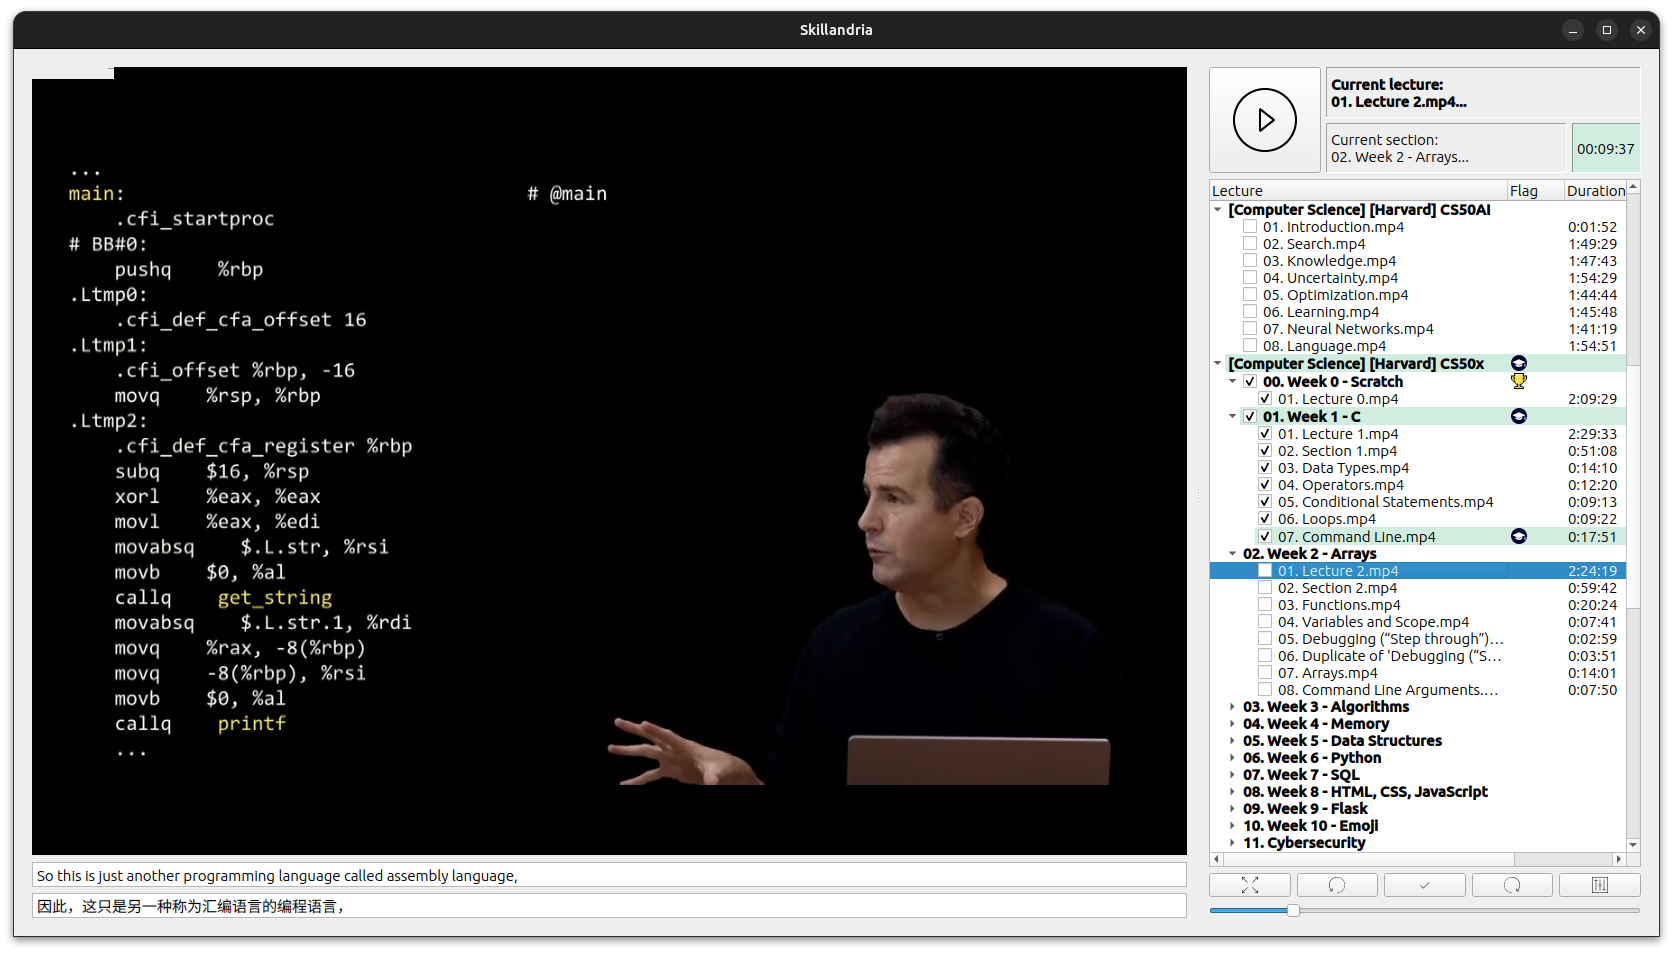
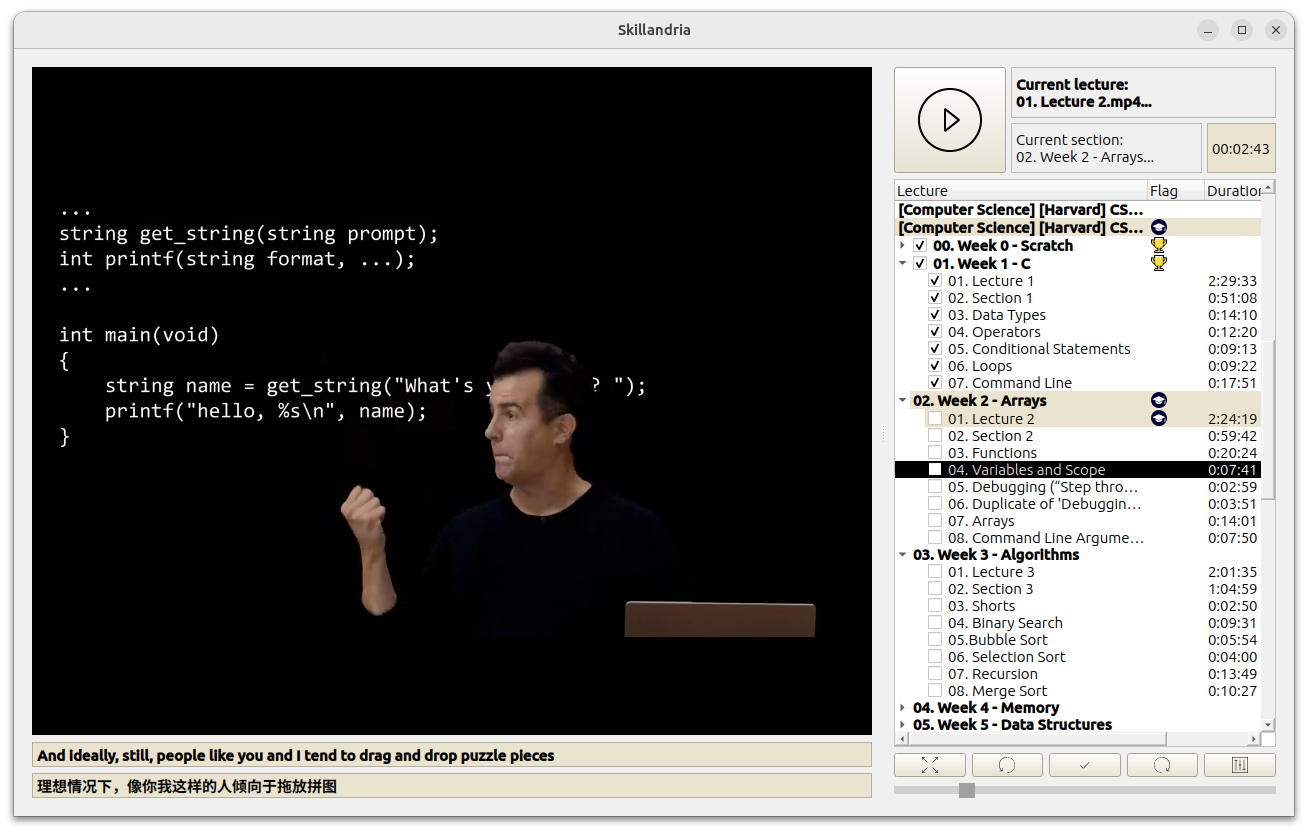
Fixed config path

diff --git a/skillandria/videoplayer.py b/skillandria/videoplayer.py
@@ -16,12 +16,8 @@ class VideoPlayer(QMainWindow):
     def __init__(self, parent=None):
         super().__init__(parent)
 
-        self.load_theme()
-
-        self.string_from_file = None
         self.subtitle_list = None
-        self.settings_dialog = None
-        self.settings = None
+        self.settings = QSettings("skillandria")
         self.setWindowTitle("Skillandria")
 
         self.resize(800, 600)
@@ -30,8 +26,10 @@ class VideoPlayer(QMainWindow):
         self.start_time = 0
         self.end_time = 0
 
-        if not os.path.exists(config_file):
+        if not os.path.exists(self.settings.fileName()):
             self.open_settings()
+
+        self.theme = self.load_theme()
 
         self.icon_path = get_icon_path(self.theme)
         self.theme_path = get_theme_path(self.theme)
@@ -39,7 +37,7 @@ class VideoPlayer(QMainWindow):
         self.translation_language = load_translation_language()
         self.folder_path = load_folder_path()
 
-        self.subtitle_connected = False  # Flag to track subtitle connection
+        self.subtitle_connected = False
 
         # Main widget
         self.central_widget = QWidget(self)
@@ -225,17 +223,19 @@ class VideoPlayer(QMainWindow):
 
     def load_theme(self):
         # Load the theme from the config.ini file
-        self.settings = QSettings(QSettings.Format.IniFormat, QSettings.Scope.UserScope, config_file)
         if self.settings.value("DarkThemeEnabled") == "true":
-            self.theme = "dark"
+            self.setStyleSheet(load_stylesheet(get_theme_path("dark")))
+            self.repaint()
+
+            return "dark"
         else:
-            self.theme = "light"
-        self.setStyleSheet(load_stylesheet(get_theme_path(self.theme)))
-        self.repaint()
+            self.setStyleSheet(load_stylesheet(get_theme_path("light")))
+            self.repaint()
+
+            return "light"
 
     def load_last_played_video(self):
-        # Load the last played video from config.ini
-        self.settings = QSettings(QSettings.Format.IniFormat, QSettings.Scope.UserScope, config_file)
+        # Load the last played video from config
         last_video = self.settings.value("LastVideo")
         if last_video is not None:
             self.string_from_file = last_video
@@ -285,9 +285,6 @@ class VideoPlayer(QMainWindow):
 
     def translate_subtitle(self):
 
-        # self.translation_delay = self.translation_delay + 1
-        # print(self.translation_delay)
-
         subtitle_text = self.subtitle_textedit.toPlainText()
         if subtitle_text:  # and self.translation_delay > 10:
             translator = Translator()
@@ -297,14 +294,12 @@ class VideoPlayer(QMainWindow):
 
                     # googletranslate version 3.0 breaks, version 3.1 needs to pass translation instead translation.text
                     self.translation_textedit.setPlainText(translation)
-                    # self.translation_delay = 0
                 else:
                     self.translation_textedit.clear()
             except Exception as e:
 
                 # print(f"translation.text: {self.translation}")
                 print(f"Translation error: {e}")
-                # Handle the exception here (show an error message, log the error, etc.)
         else:
             self.translation_textedit.clear()
 
@@ -531,16 +526,15 @@ class VideoPlayer(QMainWindow):
     def start_timer(self):
         self.timer_running = 1
         if self.theme == "dark":
-            self.timer_label.setStyleSheet("background-color: #2e3436")
+            self.timer_label.setStyleSheet("background-color: #59564e")
         else:
-            self.timer_label.setStyleSheet("background-color: #d3d7cf")
+            self.timer_label.setStyleSheet("background-color: #eae3d0")
 
     def stop_timer(self):
         self.timer_running = 0
         self.timer_label.setStyleSheet("")
 
     def save_last_file_played(self):
-        self.settings = QSettings(QSettings.Format.IniFormat, QSettings.Scope.UserScope, config_file)
         self.settings.setValue("LastVideo", self.current_video_path)
 
     def closeEvent(self, event):

diff --git a/skillandria/settings.py b/skillandria/settings.py
@@ -14,21 +14,21 @@ class SettingsDialog(QDialog):
         self.setWindowTitle("Settings")
         self.setFixedSize(400, 200)
 
-        layout = QVBoxLayout(self)
+        self.layout = QVBoxLayout(self)
 
-        self.settings = QSettings(QSettings.Format.IniFormat, QSettings.Scope.UserScope, config_file)
+        self.settings = QSettings("skillandria")
 
         # Video Path Section
-        video_path_layout = QHBoxLayout()
+        self.video_path_layout = QHBoxLayout()
         self.video_path_label = QLabel("Video Path:")
         self.video_path_edit = QLineEdit()
         self.video_path_button = QPushButton("Browse...")
         self.video_path_button.clicked.connect(self.select_video_path)
-        video_path_layout.addWidget(self.video_path_edit)
-        video_path_layout.addWidget(self.video_path_button)
+        self.video_path_layout.addWidget(self.video_path_edit)
+        self.video_path_layout.addWidget(self.video_path_button)
 
         # Subtitle Language Section
-        subtitle_language_layout = QHBoxLayout()
+        self.subtitle_language_layout = QHBoxLayout()
         self.subtitle_language_label = QLabel("Subtitle Language:")
         self.subtitle_language_combo = QComboBox()
         self.subtitle_language_combo.currentIndexChanged.connect(self.language_changed)
@@ -37,25 +37,25 @@ class SettingsDialog(QDialog):
             "ms", "nl", "no", "pl", "pt", "ro", "ru", "sv", "th", "tr", "uk", "vi", "zh-cn", "zh-tw"
         ]
         self.subtitle_language_combo.addItems(self.subtitle_languages)
-        subtitle_language_layout.addWidget(self.subtitle_language_combo)
+        self.subtitle_language_layout.addWidget(self.subtitle_language_combo)
 
         # Theme Section
-        theme_layout = QHBoxLayout()
+        self.theme_layout = QHBoxLayout()
         self.theme_label = QLabel("Theme:")
         self.theme_checkbox = QCheckBox("Dark Theme")
 
-        theme_layout.addWidget(self.theme_label)
-        theme_layout.addWidget(self.theme_checkbox)
+        self.theme_layout.addWidget(self.theme_label)
+        self.theme_layout.addWidget(self.theme_checkbox)
 
-        save_button = QPushButton("Save")
-        save_button.clicked.connect(self.save_settings)
+        self.save_button = QPushButton("Save")
+        self.save_button.clicked.connect(self.save_settings)
 
-        layout.addWidget(self.video_path_label)
-        layout.addLayout(video_path_layout)
-        layout.addWidget(self.subtitle_language_label)
-        layout.addLayout(subtitle_language_layout)
-        layout.addLayout(theme_layout)
-        layout.addWidget(save_button)
+        self.layout.addWidget(self.video_path_label)
+        self.layout.addLayout(self.video_path_layout)
+        self.layout.addWidget(self.subtitle_language_label)
+        self.layout.addLayout(self.subtitle_language_layout)
+        self.layout.addLayout(self.theme_layout)
+        self.layout.addWidget(self.save_button)
 
         self.load_settings()
 

diff --git a/skillandria/helpers.py b/skillandria/helpers.py
@@ -2,20 +2,14 @@ import os
 import sys
 
 from PyQt6.QtCore import QSettings
-from PyQt6.QtCore import QStandardPaths
 from PyQt6.QtCore import QFile, QIODevice, QTextStream
-
-config_dir = os.path.join(os.path.abspath(QStandardPaths.standardLocations(QStandardPaths.StandardLocation.AppConfigLocation)[0]), 'skillandria')
-os.makedirs(config_dir, exist_ok=True)
-config_file = os.path.join(config_dir, 'skillandria')
-print(config_file)
 
 
 def get_icon_path(theme):
     base_path = os.path.abspath(os.path.dirname(__file__))
 
     if getattr(sys, 'frozen', False):
-        icon_path = os.path.join(base_path, '..', 'themes', theme)
+        icon_path = os.path.join(os.path.dirname(base_path), 'themes', theme)
     else:
         icon_path = os.path.join(os.path.dirname(os.path.abspath(__file__)), 'themes', theme)
     return icon_path
@@ -27,7 +21,8 @@ def get_theme_path(theme):
 
     # Get the path to the icon files
     if getattr(sys, 'frozen', False):
-        theme_path = os.path.join(base_path, '..', 'themes', theme, 'style.qss')
+        theme_path = os.path.join(os.path.dirname(base_path), 'themes', theme, 'style.qss')
+        print(theme_path)
     else:
         theme_path = os.path.join(os.path.dirname(os.path.abspath(__file__)), 'themes', theme, 'style.qss')
     return theme_path
@@ -45,7 +40,7 @@ def time_to_milliseconds(time_str):
 
 
 def load_folder_path():
-    settings = QSettings(QSettings.Format.IniFormat, QSettings.Scope.UserScope, config_file)
+    settings = QSettings("skillandria")
     return settings.value("VideoPath", "")
 
 
@@ -57,7 +52,7 @@ def format_time(seconds):
 
 
 def load_translation_language():
-    settings = QSettings(QSettings.Format.IniFormat, QSettings.Scope.UserScope, config_file)
+    settings = QSettings("skillandria")
     return settings.value("SubtitleLanguage", "es")
 
 

diff --git a/skillandria/treemodel.py b/skillandria/treemodel.py
@@ -118,9 +118,9 @@ class VideoTreeModel(QAbstractItemModel):
         if role == Qt.ItemDataRole.BackgroundRole:
             if node.folder_name_matches(self.string_from_file):
                 if self.theme == "light":
-                    return QBrush(QColor(107, 107, 107))
+                    return QBrush(QColor( 234, 227, 208 ))
                 else:
-                    return QBrush(QColor(189, 189, 189))
+                    return QBrush(QColor( 89, 86, 78))
 
         if role == Qt.ItemDataRole.DecorationRole and index.column() == 1:
             if node.folder_name_matches(self.string_from_file):

diff --git a/README.md b/README.md
@@ -17,9 +17,9 @@ It's witten in Python 3 and QT.
  - Speeding up / down controls
 
 ## Usage
- - On the first run, user must specify the folder containing courses and the language for subtitle translation
+ - On the first run, the user must specify the folder containing courses and the language for subtitle translation
  - The application will look for lectures, sorting them in a tree view
- - Navigation is done with a single click and video only starts / pauses through the big play button
+ - Navigation is done with a single click and video only starts / pauses clicking the big play button
  - Timer tracks how much the user spent on every lecture (even paused, this is an intended behaviour)
  - Graduation cap icon points to the last lecture from the last session, a checkmark appears next to finished lectures
 
